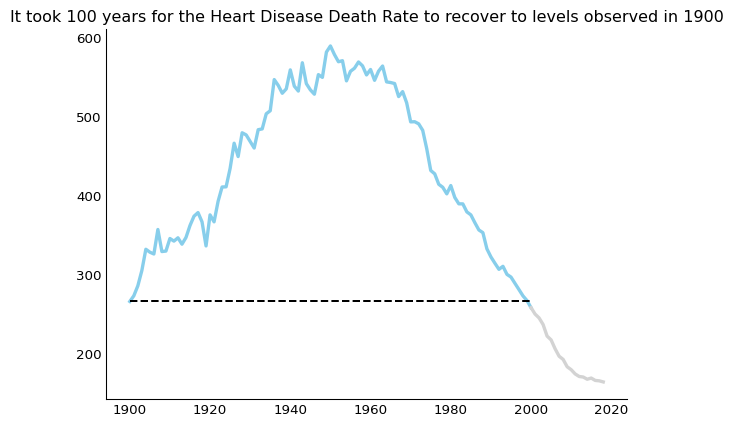
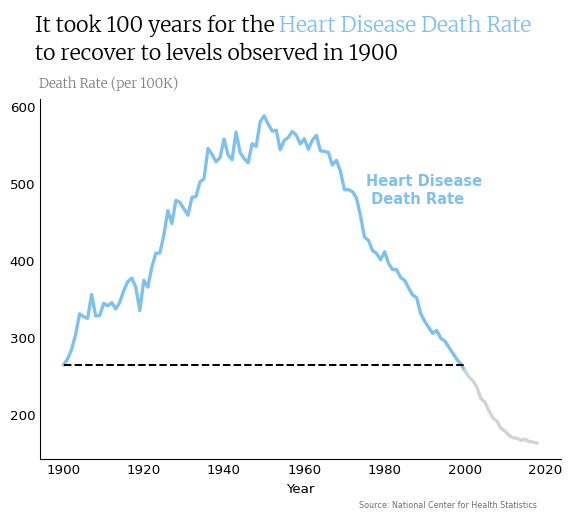
done ish with data viz

diff --git a/_site/projects/death_rates/death_rates.html b/_site/projects/death_rates/death_rates.html
@@ -111,9 +111,6 @@ pre > code.sourceCode > span > a:first-child::before { text-decoration: underlin
     <nav class="navbar navbar-expand-lg " data-bs-theme="dark">
       <div class="navbar-container container-fluid">
       <div class="navbar-brand-container mx-auto">
-    <a href="../../index.html" class="navbar-brand navbar-brand-logo">
-    <img src="../../logos/eq_logo_medium_white.svg" alt="" class="navbar-logo">
-    </a>
     <a class="navbar-brand" href="../../index.html">
     <span class="navbar-title">Python Portfolio</span>
     </a>
@@ -156,9 +153,13 @@ pre > code.sourceCode > span > a:first-child::before { text-decoration: underlin
     <h2 id="toc-title">On this page</h2>
    
   <ul>
-  <li><a href="#read-in-data" id="toc-read-in-data" class="nav-link active" data-scroll-target="#read-in-data">Read in Data</a></li>
-  <li><a href="#initial-plot" id="toc-initial-plot" class="nav-link" data-scroll-target="#initial-plot">Initial Plot</a></li>
-  <li><a href="#heart-disease" id="toc-heart-disease" class="nav-link" data-scroll-target="#heart-disease">Heart Disease</a></li>
+  <li><a href="#introduction" id="toc-introduction" class="nav-link active" data-scroll-target="#introduction">Introduction</a></li>
+  <li><a href="#read-in-data" id="toc-read-in-data" class="nav-link" data-scroll-target="#read-in-data">Read in Data</a></li>
+  <li><a href="#visualization" id="toc-visualization" class="nav-link" data-scroll-target="#visualization">Visualization</a>
+  <ul class="collapse">
+  <li><a href="#plot-all-causes-of-death" id="toc-plot-all-causes-of-death" class="nav-link" data-scroll-target="#plot-all-causes-of-death">Plot All Causes of Death</a></li>
+  <li><a href="#plot-heart-disease" id="toc-plot-heart-disease" class="nav-link" data-scroll-target="#plot-heart-disease">Plot Heart Disease</a></li>
+  </ul></li>
   </ul>
 </nav>
     </div>
@@ -187,9 +188,15 @@ pre > code.sourceCode > span > a:first-child::before { text-decoration: underlin
 </header>
 
 
+<section id="introduction" class="level1">
+<h1>Introduction</h1>
+<p>This document uses <a href="https://data.cdc.gov/NCHS/NCHS-Age-adjusted-Death-Rates-for-Selected-Major-C/6rkc-nb2q/about_data">age-adjusted death rates from the National Center for Health Statistics for the years 1900-2018</a> to demonstrate good data visualization principles. Clutter is removed and a coherent message is communicated to the audience.</p>
+</section>
 <section id="read-in-data" class="level1">
 <h1>Read in Data</h1>
-<div id="a44cc448" class="cell" data-execution_count="2">
+<div id="1fe23590" class="cell" data-execution_count="2">
+<details class="code-fold">
+<summary>Code</summary>
 <div class="sourceCode cell-code" id="cb1"><pre class="sourceCode python code-with-copy"><code class="sourceCode python"><span id="cb1-1"><a href="#cb1-1" aria-hidden="true" tabindex="-1"></a>df <span class="op">=</span> (</span>
 <span id="cb1-2"><a href="#cb1-2" aria-hidden="true" tabindex="-1"></a>    pl.read_csv(here(<span class="st">"projects/death_rates/death_rates.csv"</span>))</span>
 <span id="cb1-3"><a href="#cb1-3" aria-hidden="true" tabindex="-1"></a>    .with_columns(pl.col(<span class="st">"Year"</span>)</span>
@@ -198,6 +205,7 @@ pre > code.sourceCode > span > a:first-child::before { text-decoration: underlin
 <span id="cb1-6"><a href="#cb1-6" aria-hidden="true" tabindex="-1"></a>)</span>
 <span id="cb1-7"><a href="#cb1-7" aria-hidden="true" tabindex="-1"></a></span>
 <span id="cb1-8"><a href="#cb1-8" aria-hidden="true" tabindex="-1"></a>df.glimpse()</span></code><button title="Copy to Clipboard" class="code-copy-button"><i class="bi"></i></button></pre></div>
+</details>
 <div class="cell-output cell-output-stdout">
 <pre><code>Rows: 595
 Columns: 3
@@ -208,9 +216,13 @@ $ Age Adjusted Death Rate  &lt;f64&gt; 265.4, 272.6, 285.2, 304.5, 331.5, 327.8,
 </div>
 </div>
 </section>
-<section id="initial-plot" class="level1">
-<h1>Initial Plot</h1>
-<div id="55c7b3ce" class="cell" data-execution_count="3">
+<section id="visualization" class="level1">
+<h1>Visualization</h1>
+<section id="plot-all-causes-of-death" class="level2">
+<h2 class="anchored" data-anchor-id="plot-all-causes-of-death">Plot All Causes of Death</h2>
+<div id="e747b53b" class="cell" data-execution_count="3">
+<details class="code-fold">
+<summary>Code</summary>
 <div class="sourceCode cell-code" id="cb3"><pre class="sourceCode python code-with-copy"><code class="sourceCode python"><span id="cb3-1"><a href="#cb3-1" aria-hidden="true" tabindex="-1"></a>fig, ax <span class="op">=</span> plt.subplots()</span>
 <span id="cb3-2"><a href="#cb3-2" aria-hidden="true" tabindex="-1"></a></span>
 <span id="cb3-3"><a href="#cb3-3" aria-hidden="true" tabindex="-1"></a></span>
@@ -225,6 +237,7 @@ $ Age Adjusted Death Rate  &lt;f64&gt; 265.4, 272.6, 285.2, 304.5, 331.5, 327.8,
 <span id="cb3-12"><a href="#cb3-12" aria-hidden="true" tabindex="-1"></a>ax.set_title(<span class="st">"Initial Rough Plot"</span>)</span>
 <span id="cb3-13"><a href="#cb3-13" aria-hidden="true" tabindex="-1"></a></span>
 <span id="cb3-14"><a href="#cb3-14" aria-hidden="true" tabindex="-1"></a>plt.show()</span></code><button title="Copy to Clipboard" class="code-copy-button"><i class="bi"></i></button></pre></div>
+</details>
 <div class="cell-output cell-output-display">
 <div>
 <figure class="figure">
@@ -233,12 +246,14 @@ $ Age Adjusted Death Rate  &lt;f64&gt; 265.4, 272.6, 285.2, 304.5, 331.5, 327.8,
 </div>
 </div>
 </div>
-<p>Let’s focus on a single disease in the data. This allows for better understanding of the patterns.</p>
+<p>There’s a lot going on here, not to mention a legend that is in the way. Let’s focus on a single disease in the data. This allows for better understanding of the patterns.</p>
 </section>
-<section id="heart-disease" class="level1">
-<h1>Heart Disease</h1>
-<div id="21eb5407" class="cell" data-execution_count="4">
-<div class="sourceCode cell-code" id="cb4"><pre class="sourceCode python code-with-copy"><code class="sourceCode python"><span id="cb4-1"><a href="#cb4-1" aria-hidden="true" tabindex="-1"></a><span class="co"># Ensure the 'Year' column is a date type</span></span>
+<section id="plot-heart-disease" class="level2">
+<h2 class="anchored" data-anchor-id="plot-heart-disease">Plot Heart Disease</h2>
+<div id="c59f3e74" class="cell" data-execution_count="4">
+<details class="code-fold">
+<summary>Code</summary>
+<div class="sourceCode cell-code" id="cb4"><pre class="sourceCode python code-with-copy"><code class="sourceCode python"><span id="cb4-1"><a href="#cb4-1" aria-hidden="true" tabindex="-1"></a><span class="co"># Subset for heart disease</span></span>
 <span id="cb4-2"><a href="#cb4-2" aria-hidden="true" tabindex="-1"></a>df_heart <span class="op">=</span> (</span>
 <span id="cb4-3"><a href="#cb4-3" aria-hidden="true" tabindex="-1"></a>    df</span>
 <span id="cb4-4"><a href="#cb4-4" aria-hidden="true" tabindex="-1"></a>    .<span class="bu">filter</span>(pl.col(<span class="st">"Cause"</span>) <span class="op">==</span> <span class="st">"Heart Disease"</span>)</span>
@@ -249,44 +264,104 @@ $ Age Adjusted Death Rate  &lt;f64&gt; 265.4, 272.6, 285.2, 304.5, 331.5, 327.8,
 <span id="cb4-9"><a href="#cb4-9" aria-hidden="true" tabindex="-1"></a>df_old <span class="op">=</span> df_heart.<span class="bu">filter</span>(pl.col(<span class="st">"Year"</span>) <span class="op">&lt;=</span> cutoff)</span>
 <span id="cb4-10"><a href="#cb4-10" aria-hidden="true" tabindex="-1"></a>df_new <span class="op">=</span> df_heart.<span class="bu">filter</span>(pl.col(<span class="st">"Year"</span>) <span class="op">&gt;=</span> cutoff)</span>
 <span id="cb4-11"><a href="#cb4-11" aria-hidden="true" tabindex="-1"></a></span>
-<span id="cb4-12"><a href="#cb4-12" aria-hidden="true" tabindex="-1"></a>fig, ax <span class="op">=</span> plt.subplots()</span>
+<span id="cb4-12"><a href="#cb4-12" aria-hidden="true" tabindex="-1"></a></span>
 <span id="cb4-13"><a href="#cb4-13" aria-hidden="true" tabindex="-1"></a></span>
-<span id="cb4-14"><a href="#cb4-14" aria-hidden="true" tabindex="-1"></a><span class="co"># Plot the segment for years &lt;= 2000 in skyblue</span></span>
-<span id="cb4-15"><a href="#cb4-15" aria-hidden="true" tabindex="-1"></a>ax.plot(</span>
-<span id="cb4-16"><a href="#cb4-16" aria-hidden="true" tabindex="-1"></a>    df_old[<span class="st">"Year"</span>],</span>
-<span id="cb4-17"><a href="#cb4-17" aria-hidden="true" tabindex="-1"></a>    df_old[<span class="st">"Age Adjusted Death Rate"</span>],</span>
-<span id="cb4-18"><a href="#cb4-18" aria-hidden="true" tabindex="-1"></a>    linewidth<span class="op">=</span><span class="fl">2.5</span>,</span>
-<span id="cb4-19"><a href="#cb4-19" aria-hidden="true" tabindex="-1"></a>    color<span class="op">=</span><span class="st">"skyblue"</span></span>
-<span id="cb4-20"><a href="#cb4-20" aria-hidden="true" tabindex="-1"></a>)</span>
+<span id="cb4-14"><a href="#cb4-14" aria-hidden="true" tabindex="-1"></a></span>
+<span id="cb4-15"><a href="#cb4-15" aria-hidden="true" tabindex="-1"></a><span class="co"># Load the font for the plot</span></span>
+<span id="cb4-16"><a href="#cb4-16" aria-hidden="true" tabindex="-1"></a>font <span class="op">=</span> load_font(</span>
+<span id="cb4-17"><a href="#cb4-17" aria-hidden="true" tabindex="-1"></a>    <span class="st">"https://github.com/google/fonts/blob/main/ofl/merriweather/Merriweather%5Bopsz%2Cwdth%2Cwght%5D.ttf?raw=true"</span></span>
+<span id="cb4-18"><a href="#cb4-18" aria-hidden="true" tabindex="-1"></a>)</span>
+<span id="cb4-19"><a href="#cb4-19" aria-hidden="true" tabindex="-1"></a></span>
+<span id="cb4-20"><a href="#cb4-20" aria-hidden="true" tabindex="-1"></a></span>
 <span id="cb4-21"><a href="#cb4-21" aria-hidden="true" tabindex="-1"></a></span>
-<span id="cb4-22"><a href="#cb4-22" aria-hidden="true" tabindex="-1"></a><span class="co"># Plot the segment for years &gt; 2000 in lightgrey</span></span>
-<span id="cb4-23"><a href="#cb4-23" aria-hidden="true" tabindex="-1"></a>ax.plot(</span>
-<span id="cb4-24"><a href="#cb4-24" aria-hidden="true" tabindex="-1"></a>    df_new[<span class="st">"Year"</span>],</span>
-<span id="cb4-25"><a href="#cb4-25" aria-hidden="true" tabindex="-1"></a>    df_new[<span class="st">"Age Adjusted Death Rate"</span>],</span>
-<span id="cb4-26"><a href="#cb4-26" aria-hidden="true" tabindex="-1"></a>    linewidth<span class="op">=</span><span class="fl">2.5</span>,</span>
-<span id="cb4-27"><a href="#cb4-27" aria-hidden="true" tabindex="-1"></a>    color<span class="op">=</span><span class="st">"lightgrey"</span></span>
-<span id="cb4-28"><a href="#cb4-28" aria-hidden="true" tabindex="-1"></a>)</span>
-<span id="cb4-29"><a href="#cb4-29" aria-hidden="true" tabindex="-1"></a></span>
-<span id="cb4-30"><a href="#cb4-30" aria-hidden="true" tabindex="-1"></a><span class="co"># Extract the rate for the year 1900</span></span>
-<span id="cb4-31"><a href="#cb4-31" aria-hidden="true" tabindex="-1"></a>rate_1900 <span class="op">=</span> df_heart.<span class="bu">filter</span>(pl.col(<span class="st">"Year"</span>) <span class="op">==</span> datetime.date(<span class="dv">1900</span>, <span class="dv">1</span>, <span class="dv">1</span>))[<span class="st">"Age Adjusted Death Rate"</span>].item()</span>
+<span id="cb4-22"><a href="#cb4-22" aria-hidden="true" tabindex="-1"></a><span class="co"># Initialize the plot</span></span>
+<span id="cb4-23"><a href="#cb4-23" aria-hidden="true" tabindex="-1"></a>fig, ax <span class="op">=</span> plt.subplots()</span>
+<span id="cb4-24"><a href="#cb4-24" aria-hidden="true" tabindex="-1"></a></span>
+<span id="cb4-25"><a href="#cb4-25" aria-hidden="true" tabindex="-1"></a><span class="co"># Plot the segment for years &lt;= 2000 in skyblue</span></span>
+<span id="cb4-26"><a href="#cb4-26" aria-hidden="true" tabindex="-1"></a>ax.plot(</span>
+<span id="cb4-27"><a href="#cb4-27" aria-hidden="true" tabindex="-1"></a>    df_old[<span class="st">"Year"</span>],</span>
+<span id="cb4-28"><a href="#cb4-28" aria-hidden="true" tabindex="-1"></a>    df_old[<span class="st">"Age Adjusted Death Rate"</span>],</span>
+<span id="cb4-29"><a href="#cb4-29" aria-hidden="true" tabindex="-1"></a>    linewidth<span class="op">=</span><span class="fl">2.5</span>,</span>
+<span id="cb4-30"><a href="#cb4-30" aria-hidden="true" tabindex="-1"></a>    color<span class="op">=</span><span class="st">"#7EC0EE"</span></span>
+<span id="cb4-31"><a href="#cb4-31" aria-hidden="true" tabindex="-1"></a>)</span>
 <span id="cb4-32"><a href="#cb4-32" aria-hidden="true" tabindex="-1"></a></span>
-<span id="cb4-33"><a href="#cb4-33" aria-hidden="true" tabindex="-1"></a><span class="co"># Add a dashed horizontal line from 1900 to 2000 at rate_1900</span></span>
-<span id="cb4-34"><a href="#cb4-34" aria-hidden="true" tabindex="-1"></a>ax.hlines(</span>
-<span id="cb4-35"><a href="#cb4-35" aria-hidden="true" tabindex="-1"></a>    y<span class="op">=</span>rate_1900,</span>
-<span id="cb4-36"><a href="#cb4-36" aria-hidden="true" tabindex="-1"></a>    xmin<span class="op">=</span>datetime.date(<span class="dv">1900</span>, <span class="dv">1</span>, <span class="dv">1</span>),</span>
-<span id="cb4-37"><a href="#cb4-37" aria-hidden="true" tabindex="-1"></a>    xmax<span class="op">=</span>datetime.date(<span class="dv">2000</span>, <span class="dv">1</span>, <span class="dv">1</span>),</span>
-<span id="cb4-38"><a href="#cb4-38" aria-hidden="true" tabindex="-1"></a>    colors<span class="op">=</span><span class="st">"black"</span>,</span>
-<span id="cb4-39"><a href="#cb4-39" aria-hidden="true" tabindex="-1"></a>    linestyles<span class="op">=</span><span class="st">"--"</span></span>
-<span id="cb4-40"><a href="#cb4-40" aria-hidden="true" tabindex="-1"></a>)</span>
-<span id="cb4-41"><a href="#cb4-41" aria-hidden="true" tabindex="-1"></a></span>
-<span id="cb4-42"><a href="#cb4-42" aria-hidden="true" tabindex="-1"></a><span class="co"># Style the plot</span></span>
-<span id="cb4-43"><a href="#cb4-43" aria-hidden="true" tabindex="-1"></a>ax.spines[<span class="st">"top"</span>].set_visible(<span class="va">False</span>)</span>
-<span id="cb4-44"><a href="#cb4-44" aria-hidden="true" tabindex="-1"></a>ax.spines[<span class="st">"right"</span>].set_visible(<span class="va">False</span>)</span>
-<span id="cb4-45"><a href="#cb4-45" aria-hidden="true" tabindex="-1"></a>ax.tick_params(length<span class="op">=</span><span class="dv">0</span>)</span>
-<span id="cb4-46"><a href="#cb4-46" aria-hidden="true" tabindex="-1"></a>ax.set_title(<span class="st">"It took 100 years for the Heart Disease Death Rate to recover to levels observed in 1900"</span>)</span>
-<span id="cb4-47"><a href="#cb4-47" aria-hidden="true" tabindex="-1"></a></span>
-<span id="cb4-48"><a href="#cb4-48" aria-hidden="true" tabindex="-1"></a></span>
-<span id="cb4-49"><a href="#cb4-49" aria-hidden="true" tabindex="-1"></a>plt.show()</span></code><button title="Copy to Clipboard" class="code-copy-button"><i class="bi"></i></button></pre></div>
+<span id="cb4-33"><a href="#cb4-33" aria-hidden="true" tabindex="-1"></a><span class="co"># Plot the segment for years &gt; 2000 in lightgrey</span></span>
+<span id="cb4-34"><a href="#cb4-34" aria-hidden="true" tabindex="-1"></a>ax.plot(</span>
+<span id="cb4-35"><a href="#cb4-35" aria-hidden="true" tabindex="-1"></a>    df_new[<span class="st">"Year"</span>],</span>
+<span id="cb4-36"><a href="#cb4-36" aria-hidden="true" tabindex="-1"></a>    df_new[<span class="st">"Age Adjusted Death Rate"</span>],</span>
+<span id="cb4-37"><a href="#cb4-37" aria-hidden="true" tabindex="-1"></a>    linewidth<span class="op">=</span><span class="fl">2.5</span>,</span>
+<span id="cb4-38"><a href="#cb4-38" aria-hidden="true" tabindex="-1"></a>    color<span class="op">=</span><span class="st">"lightgrey"</span></span>
+<span id="cb4-39"><a href="#cb4-39" aria-hidden="true" tabindex="-1"></a>)</span>
+<span id="cb4-40"><a href="#cb4-40" aria-hidden="true" tabindex="-1"></a></span>
+<span id="cb4-41"><a href="#cb4-41" aria-hidden="true" tabindex="-1"></a><span class="co"># Extract the rate for the year 1900</span></span>
+<span id="cb4-42"><a href="#cb4-42" aria-hidden="true" tabindex="-1"></a>rate_1900 <span class="op">=</span> df_heart.<span class="bu">filter</span>(pl.col(<span class="st">"Year"</span>) <span class="op">==</span> datetime.date(<span class="dv">1900</span>, <span class="dv">1</span>, <span class="dv">1</span>))[<span class="st">"Age Adjusted Death Rate"</span>].item()</span>
+<span id="cb4-43"><a href="#cb4-43" aria-hidden="true" tabindex="-1"></a></span>
+<span id="cb4-44"><a href="#cb4-44" aria-hidden="true" tabindex="-1"></a><span class="co"># Add a dashed horizontal line from 1900 to 2000 at rate_1900</span></span>
+<span id="cb4-45"><a href="#cb4-45" aria-hidden="true" tabindex="-1"></a>ax.hlines(</span>
+<span id="cb4-46"><a href="#cb4-46" aria-hidden="true" tabindex="-1"></a>    y<span class="op">=</span>rate_1900,</span>
+<span id="cb4-47"><a href="#cb4-47" aria-hidden="true" tabindex="-1"></a>    xmin<span class="op">=</span>datetime.date(<span class="dv">1900</span>, <span class="dv">1</span>, <span class="dv">1</span>),</span>
+<span id="cb4-48"><a href="#cb4-48" aria-hidden="true" tabindex="-1"></a>    xmax<span class="op">=</span>datetime.date(<span class="dv">2000</span>, <span class="dv">1</span>, <span class="dv">1</span>),</span>
+<span id="cb4-49"><a href="#cb4-49" aria-hidden="true" tabindex="-1"></a>    colors<span class="op">=</span><span class="st">"black"</span>,</span>
+<span id="cb4-50"><a href="#cb4-50" aria-hidden="true" tabindex="-1"></a>    linestyles<span class="op">=</span><span class="st">"--"</span></span>
+<span id="cb4-51"><a href="#cb4-51" aria-hidden="true" tabindex="-1"></a>)</span>
+<span id="cb4-52"><a href="#cb4-52" aria-hidden="true" tabindex="-1"></a></span>
+<span id="cb4-53"><a href="#cb4-53" aria-hidden="true" tabindex="-1"></a><span class="co"># Style the plot</span></span>
+<span id="cb4-54"><a href="#cb4-54" aria-hidden="true" tabindex="-1"></a>ax.spines[<span class="st">"top"</span>].set_visible(<span class="va">False</span>)</span>
+<span id="cb4-55"><a href="#cb4-55" aria-hidden="true" tabindex="-1"></a>ax.spines[<span class="st">"right"</span>].set_visible(<span class="va">False</span>)</span>
+<span id="cb4-56"><a href="#cb4-56" aria-hidden="true" tabindex="-1"></a>ax.tick_params(length<span class="op">=</span><span class="dv">0</span>)</span>
+<span id="cb4-57"><a href="#cb4-57" aria-hidden="true" tabindex="-1"></a><span class="co"># ax.set_title()</span></span>
+<span id="cb4-58"><a href="#cb4-58" aria-hidden="true" tabindex="-1"></a><span class="co"># ax.set_ylabel()</span></span>
+<span id="cb4-59"><a href="#cb4-59" aria-hidden="true" tabindex="-1"></a>ax.set_xlabel(<span class="st">"Year"</span>)</span>
+<span id="cb4-60"><a href="#cb4-60" aria-hidden="true" tabindex="-1"></a></span>
+<span id="cb4-61"><a href="#cb4-61" aria-hidden="true" tabindex="-1"></a></span>
+<span id="cb4-62"><a href="#cb4-62" aria-hidden="true" tabindex="-1"></a>ax.text(</span>
+<span id="cb4-63"><a href="#cb4-63" aria-hidden="true" tabindex="-1"></a>    x <span class="op">=</span> <span class="dv">2000</span>,</span>
+<span id="cb4-64"><a href="#cb4-64" aria-hidden="true" tabindex="-1"></a>    y <span class="op">=</span> <span class="dv">475</span>,</span>
+<span id="cb4-65"><a href="#cb4-65" aria-hidden="true" tabindex="-1"></a>    size <span class="op">=</span> <span class="dv">11</span>,</span>
+<span id="cb4-66"><a href="#cb4-66" aria-hidden="true" tabindex="-1"></a>    s <span class="op">=</span> <span class="st">"Heart Disease</span><span class="ch">\n</span><span class="st"> Death Rate"</span>,</span>
+<span id="cb4-67"><a href="#cb4-67" aria-hidden="true" tabindex="-1"></a>    color <span class="op">=</span> <span class="st">"#7EC0EE"</span>,</span>
+<span id="cb4-68"><a href="#cb4-68" aria-hidden="true" tabindex="-1"></a>    weight <span class="op">=</span> <span class="st">"bold"</span>,</span>
+<span id="cb4-69"><a href="#cb4-69" aria-hidden="true" tabindex="-1"></a>    ha<span class="op">=</span><span class="st">"left"</span></span>
+<span id="cb4-70"><a href="#cb4-70" aria-hidden="true" tabindex="-1"></a>)</span>
+<span id="cb4-71"><a href="#cb4-71" aria-hidden="true" tabindex="-1"></a></span>
+<span id="cb4-72"><a href="#cb4-72" aria-hidden="true" tabindex="-1"></a><span class="co"># Adjust top margin</span></span>
+<span id="cb4-73"><a href="#cb4-73" aria-hidden="true" tabindex="-1"></a>fig.subplots_adjust(top<span class="op">=</span><span class="fl">0.8</span>, bottom<span class="op">=</span><span class="fl">0.05</span>)</span>
+<span id="cb4-74"><a href="#cb4-74" aria-hidden="true" tabindex="-1"></a></span>
+<span id="cb4-75"><a href="#cb4-75" aria-hidden="true" tabindex="-1"></a></span>
+<span id="cb4-76"><a href="#cb4-76" aria-hidden="true" tabindex="-1"></a><span class="co"># Title with higlight_text</span></span>
+<span id="cb4-77"><a href="#cb4-77" aria-hidden="true" tabindex="-1"></a></span>
+<span id="cb4-78"><a href="#cb4-78" aria-hidden="true" tabindex="-1"></a>text <span class="op">=</span> <span class="st">"It took 100 years for the &lt;Heart Disease Death Rate&gt;</span><span class="ch">\n</span><span class="st">to recover to levels observed in 1900"</span></span>
+<span id="cb4-79"><a href="#cb4-79" aria-hidden="true" tabindex="-1"></a>ax_text(</span>
+<span id="cb4-80"><a href="#cb4-80" aria-hidden="true" tabindex="-1"></a>    x<span class="op">=-</span><span class="dv">10</span><span class="op">**</span><span class="fl">4.45</span>, y<span class="op">=</span><span class="dv">720</span>, s<span class="op">=</span>text,</span>
+<span id="cb4-81"><a href="#cb4-81" aria-hidden="true" tabindex="-1"></a>    fontsize<span class="op">=</span><span class="dv">16</span>, color<span class="op">=</span><span class="st">'black'</span>,</span>
+<span id="cb4-82"><a href="#cb4-82" aria-hidden="true" tabindex="-1"></a>    font <span class="op">=</span> font,</span>
+<span id="cb4-83"><a href="#cb4-83" aria-hidden="true" tabindex="-1"></a>    highlight_textprops<span class="op">=</span>[</span>
+<span id="cb4-84"><a href="#cb4-84" aria-hidden="true" tabindex="-1"></a>      {<span class="st">"color"</span>: <span class="st">"#7EC0EE"</span>, <span class="st">'fontweight'</span>: <span class="st">'bold'</span>}</span>
+<span id="cb4-85"><a href="#cb4-85" aria-hidden="true" tabindex="-1"></a>    ]</span>
+<span id="cb4-86"><a href="#cb4-86" aria-hidden="true" tabindex="-1"></a>)</span>
+<span id="cb4-87"><a href="#cb4-87" aria-hidden="true" tabindex="-1"></a></span>
+<span id="cb4-88"><a href="#cb4-88" aria-hidden="true" tabindex="-1"></a><span class="co"># Subtitle</span></span>
+<span id="cb4-89"><a href="#cb4-89" aria-hidden="true" tabindex="-1"></a>fig.text(</span>
+<span id="cb4-90"><a href="#cb4-90" aria-hidden="true" tabindex="-1"></a>  x<span class="op">=</span><span class="fl">.124</span>,</span>
+<span id="cb4-91"><a href="#cb4-91" aria-hidden="true" tabindex="-1"></a>  y<span class="op">=</span><span class="fl">.825</span>,</span>
+<span id="cb4-92"><a href="#cb4-92" aria-hidden="true" tabindex="-1"></a>  s<span class="op">=</span><span class="st">"Death Rate (per 100K)"</span>,</span>
+<span id="cb4-93"><a href="#cb4-93" aria-hidden="true" tabindex="-1"></a>  size<span class="op">=</span><span class="dv">10</span>,</span>
+<span id="cb4-94"><a href="#cb4-94" aria-hidden="true" tabindex="-1"></a>  font<span class="op">=</span>font,</span>
+<span id="cb4-95"><a href="#cb4-95" aria-hidden="true" tabindex="-1"></a>  color<span class="op">=</span><span class="st">"gray"</span></span>
+<span id="cb4-96"><a href="#cb4-96" aria-hidden="true" tabindex="-1"></a>)</span>
+<span id="cb4-97"><a href="#cb4-97" aria-hidden="true" tabindex="-1"></a></span>
+<span id="cb4-98"><a href="#cb4-98" aria-hidden="true" tabindex="-1"></a><span class="co"># caption</span></span>
+<span id="cb4-99"><a href="#cb4-99" aria-hidden="true" tabindex="-1"></a>fig.text(</span>
+<span id="cb4-100"><a href="#cb4-100" aria-hidden="true" tabindex="-1"></a>  x<span class="op">=</span><span class="fl">.6</span>,</span>
+<span id="cb4-101"><a href="#cb4-101" aria-hidden="true" tabindex="-1"></a>  y<span class="op">=-</span><span class="fl">0.05</span>,</span>
+<span id="cb4-102"><a href="#cb4-102" aria-hidden="true" tabindex="-1"></a>  s<span class="op">=</span><span class="st">"Source: National Center for Health Statistics"</span>,</span>
+<span id="cb4-103"><a href="#cb4-103" aria-hidden="true" tabindex="-1"></a>  size<span class="op">=</span><span class="dv">6</span>,</span>
+<span id="cb4-104"><a href="#cb4-104" aria-hidden="true" tabindex="-1"></a>  color<span class="op">=</span><span class="st">"#6E6E6E"</span></span>
+<span id="cb4-105"><a href="#cb4-105" aria-hidden="true" tabindex="-1"></a>)</span>
+<span id="cb4-106"><a href="#cb4-106" aria-hidden="true" tabindex="-1"></a></span>
+<span id="cb4-107"><a href="#cb4-107" aria-hidden="true" tabindex="-1"></a></span>
+<span id="cb4-108"><a href="#cb4-108" aria-hidden="true" tabindex="-1"></a>plt.show()</span></code><button title="Copy to Clipboard" class="code-copy-button"><i class="bi"></i></button></pre></div>
+</details>
 <div class="cell-output cell-output-display">
 <div>
 <figure class="figure">
@@ -297,6 +372,7 @@ $ Age Adjusted Death Rate  &lt;f64&gt; 265.4, 272.6, 285.2, 304.5, 331.5, 327.8,
 </div>
 
 
+</section>
 </section>
 
 </main> <!-- /main -->

diff --git a/_site/projects.html b/_site/projects.html
@@ -137,9 +137,6 @@ window.Quarto = {
     <nav class="navbar navbar-expand-lg " data-bs-theme="dark">
       <div class="navbar-container container-fluid">
       <div class="navbar-brand-container mx-auto">
-    <a href="./index.html" class="navbar-brand navbar-brand-logo">
-    <img src="./logos/eq_logo_medium_white.svg" alt="" class="navbar-logo">
-    </a>
     <a class="navbar-brand" href="./index.html">
     <span class="navbar-title">Python Portfolio</span>
     </a>
@@ -228,7 +225,7 @@ window.Quarto = {
     </div>
 </div>
 <div class="list quarto-listing-default">
-<div class="quarto-post image-right" data-index="0" data-categories="RGF0YSUyMFZpc3VhbGl6YXRpb24=" data-listing-file-modified-sort="1742333498364" data-listing-reading-time-sort="2" data-listing-word-count-sort="254">
+<div class="quarto-post image-right" data-index="0" data-categories="RGF0YSUyMFZpc3VhbGl6YXRpb24=" data-listing-file-modified-sort="1742401473778" data-listing-reading-time-sort="3" data-listing-word-count-sort="449">
 <div class="thumbnail">
 <p><a href="./projects/death_rates/death_rates.html" class="no-external"></a></p><a href="./projects/death_rates/death_rates.html" class="no-external">
 <p class="card-img-top"><img src="projects\death_rates\death_rates_files\figure-html\cell-4-output-1.png"  class="thumbnail-image card-img"/></p>
@@ -247,7 +244,7 @@ Data Visualization
 </div>
 </div>
 <div class="listing-description">
-<a href="./projects/death_rates/death_rates.html" class="no-external">Let’s focus on a single disease in the data. This allows for better understanding of the patterns.</a>
+<a href="./projects/death_rates/death_rates.html" class="no-external">This document uses age-adjusted death rates from the National Center for Health Statistics for the years 1900-2018 to demonstrate good data visualization principles. Clutter…</a>
 </div>
 </div>
 <div class="metadata">
